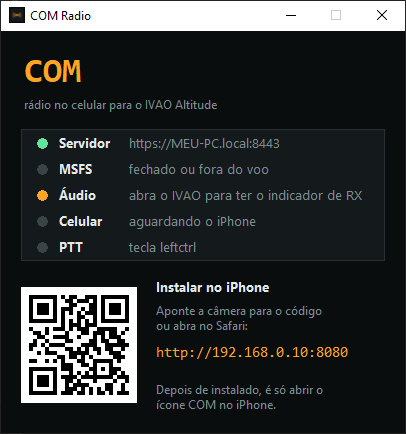
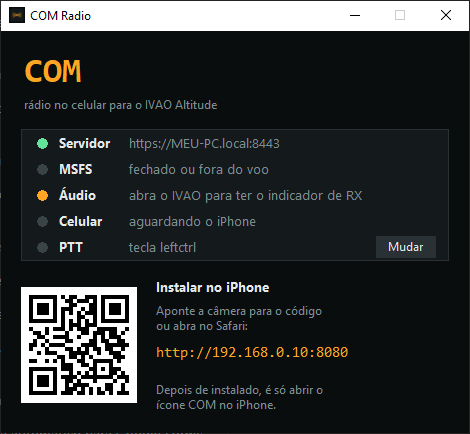
Tecla de PTT definida apertando ela
Botao Mudar na janela do PC: clica, aperta a tecla ou o botao do mouse
usado no IVAO, e o COM reconhece, troca com tudo rodando e salva so a
linha ptt_key do config.json. Recusa trocar com o PTT apertado.

diff --git a/app/gui.py b/app/gui.py
@@ -7,8 +7,10 @@ uvicorn, que passa pelo lifespan e solta a tecla de PTT.
 Os modos de diagnostico (--doctor, --meter...) continuam em 'py app/server.py'.
 """
 
+import math
 import sys
 import threading
+import time
 import tkinter as tk
 from pathlib import Path
 from tkinter import messagebox
@@ -25,6 +27,8 @@ if getattr(sys, "frozen", False):
 VOID, FACE, BEZEL = "#0A0D0E", "#141A1C", "#293134"
 LEGEND, INK, AMBER = "#7F8D93", "#E4EAEC", "#FFA524"
 GREEN, RED, OFF = "#62E39B", "#FF4B2B", "#3A4346"
+
+CAPTURE_S = 10  # quanto tempo o Mudar espera a tecla
 
 
 def fail(text: str) -> None:
@@ -86,8 +90,21 @@ class Window:
                      anchor="w").grid(row=i, column=1, sticky="w")
             detail = tk.Label(panel, text="", bg=FACE, fg=LEGEND, font=("Segoe UI", 10),
                               anchor="w", width=34)
-            detail.grid(row=i, column=2, sticky="w", padx=(0, 14))
+            detail.grid(row=i, column=2, sticky="w", padx=(0, 6))
             self.lamps[name], self.details[name] = lamp, detail
+
+        # definir a tecla apertando ela, em vez de achar o nome e editar o
+        # config.json. A captura roda numa thread e devolve por self.captured,
+        # que o tick le: o tkinter nao aceita ser mexido de outra thread
+        self.change = tk.Button(
+            panel, text="Mudar", command=self.start_capture, bg=BEZEL, fg=INK,
+            activebackground=FACE, activeforeground=INK, relief="flat", bd=0,
+            font=("Segoe UI", 9), padx=10, cursor="hand2",
+        )
+        self.change.grid(row=self.ROWS.index("PTT"), column=3, padx=(0, 12))
+        self.capture_until: float | None = None
+        self.captured: str | None = None
+        self.notice: tuple[str, str, float] | None = None
 
         setup_url = "http://%s:%s" % (server.lan_ip(), server.SETUP_PORT)
         bottom = tk.Frame(root, bg=VOID)
@@ -157,12 +174,46 @@ class Window:
         self.show("Celular", GREEN if n else OFF,
                   ("%d conectado" % n) + ("s" if n > 1 else "") if n else "aguardando o iPhone")
 
+        self.finish_capture()
+        agora = time.monotonic()
         if server.KEY.is_down:
             self.show("PTT", RED, "TRANSMITINDO")
+        elif self.capture_until:
+            falta = max(1, math.ceil(self.capture_until - agora))
+            self.show("PTT", AMBER, "aperte a tecla do IVAO… %ds" % falta)
+        elif self.notice and agora < self.notice[2]:
+            self.show("PTT", self.notice[1], self.notice[0])
         else:
             self.show("PTT", OFF, "tecla %s" % server.KEY.name)
 
         self.root.after(250, self.tick)
+
+    def start_capture(self) -> None:
+        if self.capture_until:
+            return
+        if server.KEY.is_down or server.HUB.holder is not None:
+            self.notice = ("solte o PTT antes de trocar", AMBER, time.monotonic() + 3)
+            return
+        self.capture_until = time.monotonic() + CAPTURE_S
+        self.change.configure(state="disabled")
+
+        def run():
+            self.captured = server.ptt_mod.capture(CAPTURE_S) or ""
+
+        threading.Thread(target=run, daemon=True, name="captura").start()
+
+    def finish_capture(self) -> None:
+        if self.captured is None:
+            return
+        nome, self.captured = self.captured, None
+        self.capture_until = None
+        self.change.configure(state="normal")
+        agora = time.monotonic()
+        if not nome:
+            self.notice = ("nenhuma tecla apertada; nada mudou", AMBER, agora + 4)
+            return
+        erro = server.set_ptt_key(nome)
+        self.notice = (erro, RED, agora + 6) if erro else ("tecla %s salva" % nome, GREEN, agora + 3)
 
     def close(self) -> None:
         # o mesmo desligamento do Ctrl+C: o lifespan solta a tecla e fecha

diff --git a/app/ptt.py b/app/ptt.py
@@ -171,6 +171,51 @@ else:
     _user32 = None
 
 
+def _vk_names() -> dict[int, str]:
+    """Virtual key -> nome do SCANCODES, para reconhecer a tecla apertada.
+
+    Sai do proprio SCANCODES pelo MapVirtualKey, entao toda tecla que da para
+    capturar tambem da para enviar. O numpad entra a mao: com Num Lock ligado
+    ele gera VK_NUMPAD*, que o mapa por scancode nao devolve. O Enter do
+    numpad cai como "enter": o Windows da o mesmo VK aos dois.
+    """
+    names: dict[int, str] = {}
+    for name, (scan, ext) in SCANCODES.items():
+        vk = _user32.MapVirtualKeyW(scan | (0xE000 if ext else 0), MAPVK_VSC_TO_VK_EX)
+        if vk:
+            names.setdefault(vk, name)  # o primeiro nome do dicionario ganha
+    for i in range(10):
+        names[0x60 + i] = "numpad%d" % i
+    names.update({0x6E: "numpaddot", 0x6B: "numpadplus", 0x6D: "numpadminus",
+                  0x6A: "numpadmultiply", 0x6F: "numpaddivide"})
+    for name in ("mouseback", "mouseforward", "mousemiddle"):
+        names[MOUSE_BUTTONS[name][3]] = name
+    return names
+
+
+def capture(timeout: float = 10.0) -> str | None:
+    """Espera o usuario apertar uma tecla ou botao do mouse e devolve o nome.
+
+    Le o estado global do Windows, entao funciona sem foco na janela e pega
+    os botoes laterais do mouse, que o tkinter no Windows nao enxerga. Os
+    botoes esquerdo e direito ficam de fora: o esquerdo e o que acabou de
+    clicar em Mudar. Tecla que ja estava apertada no inicio so conta depois
+    de soltar e apertar de novo.
+    """
+    names = _vk_names()
+    ocupadas = {vk for vk in names if _user32.GetAsyncKeyState(vk) & 0x8000}
+    fim = time.monotonic() + timeout
+    while time.monotonic() < fim:
+        for vk, name in names.items():
+            down = _user32.GetAsyncKeyState(vk) & 0x8000
+            if not down:
+                ocupadas.discard(vk)
+            elif vk not in ocupadas:
+                return name
+        time.sleep(0.015)
+    return None
+
+
 class PttKey:
     """Mantem o estado da tecla e garante que ela nunca fique presa."""
 
@@ -310,3 +355,14 @@ class PttKey:
         if _user32.GetAsyncKeyState(vk) & 0x8000:
             return False, "a tecla %s ficou presa depois do release" % self.name
         return True, "tecla %s apertada e solta com sucesso" % self.name
+
+
+if __name__ == "__main__":
+    # toda tecla que da para enviar tem que dar para capturar, menos o Enter
+    # do numpad, que o Windows nao distingue do Enter normal
+    nomes = set(_vk_names().values())
+    faltando = sorted(n for n in SCANCODES if n not in nomes and n != "numpadenter")
+    assert not faltando, "sem captura: %s" % faltando
+    assert {"leftctrl", "rightctrl", "mouseback", "mouseforward", "mousemiddle"} <= nomes
+    assert ctypes.sizeof(_INPUT) == 40, "INPUT com tamanho errado, o SendInput falharia"
+    print("ok")

diff --git a/app/server.py b/app/server.py
@@ -18,6 +18,7 @@ import asyncio
 import json
 import logging
 import os
+import re
 import socket
 import sys
 import time
@@ -160,6 +161,35 @@ def build(fake_sim: bool = False) -> None:
     )
     RX = audio_mod.RxDetector(CFG) if CFG.get("audio_enabled", True) else audio_mod.NullDetector()
     FEED = WhazzupFeed(CFG)
+
+
+def set_ptt_key(name: str) -> str | None:
+    """Troca a tecla de PTT com o servidor rodando e salva no config.json.
+
+    Devolve o erro para mostrar, ou None. Recusa no meio de uma transmissao:
+    trocar com a tecla antiga apertada a deixaria presa.
+    """
+    global KEY
+    if KEY.is_down or HUB.holder is not None:
+        return "solte o PTT antes de trocar a tecla"
+    antiga, nova = KEY, ptt_mod.PttKey(name)
+    KEY = HUB.key = nova
+    # o celular pode ter apertado entre a checagem e a troca
+    antiga.force_release("tecla de PTT trocada")
+    CFG["ptt_key"] = nova.name
+    log.info("PTT agora na tecla '%s'", nova.name)
+
+    path = HOME / "config.json"
+    try:
+        texto = path.read_text(encoding="utf-8")
+        # so a linha da tecla, para nao reformatar o arquivo que o usuario edita
+        novo, achou = re.subn(
+            r'("ptt_key"\s*:\s*)"[^"]*"', lambda m: m.group(1) + json.dumps(nova.name), texto
+        )
+        path.write_text(novo if achou else json.dumps(CFG, indent=2), encoding="utf-8")
+    except OSError as exc:
+        return "tecla trocada, mas não consegui salvar o config.json: %s" % exc
+    return None
 
 
 def build_state() -> dict:

diff --git a/README.pt-BR.md b/README.pt-BR.md
@@ -80,14 +80,15 @@ iPhone uma vez.
 
 1. Baixe o `COM-Radio-windows.zip` da
    [última release](../../releases/latest) e extraia onde quiser.
-2. Abra o `config.json` ao lado do exe e ponha em `ptt_key` a mesma tecla que
-   você usa como PTT na IVAO (veja [Configuração](#configuração)).
-3. Abra o `COM Radio.exe`.
+2. Abra o `COM Radio.exe`.
    - O exe não tem assinatura digital, então o SmartScreen do Windows pode
      avisar na primeira vez: clique em **Mais informações › Executar assim
      mesmo**.
    - O Firewall do Windows vai perguntar sobre a rede: libere em **Redes
      privadas**, senão o iPhone não alcança o PC.
+3. **Defina a tecla de PTT:** clique em **Mudar** na linha do PTT da janela e
+   aperte a tecla ou o botão do mouse que você usa como PTT na IVAO. O COM
+   reconhece e salva sozinho; não precisa saber o nome da tecla.
 4. **No iPhone, uma vez só:** aponte a câmera para o QR code da janela (ou
    abra no Safari o endereço `http://…:8080` que ela mostra) e siga os quatro
    passos da página:
@@ -109,7 +110,7 @@ Tudo fica no `config.json`, ao lado do exe.
 
 | Chave | Padrão | O que faz |
 |---|---|---|
-| `ptt_key` | `leftctrl` | Tecla apertada no PTT. Letras, números, `f1` a `f24`, teclas do numpad, modificadoras (`leftctrl`, `rightalt`…) ou botões do mouse `mouseback`, `mouseforward`, `mousemiddle`. Lista completa: `SCANCODES` no `app/ptt.py` |
+| `ptt_key` | `leftctrl` | Tecla apertada no PTT. O jeito fácil é o botão **Mudar** da janela. À mão: letras, números, `f1` a `f24`, teclas do numpad, modificadoras (`leftctrl`, `rightalt`…) ou botões do mouse `mouseback`, `mouseforward`, `mousemiddle`. Lista completa: `SCANCODES` no `app/ptt.py` |
 | `ptt_deadman_ms` | `700` | Solta o PTT se o celular ficar esse tempo sem dar sinal |
 | `audio_process` | `["ivao", "altitude"]` | Qualquer pedaço do caminho do programa cujo volume quer dizer "alguém falando" |
 | `squelch_open` / `squelch_close` | `0.03` / `0.01` | Nível que acende / apaga a luz de recepção |

diff --git a/README.md b/README.md
@@ -79,13 +79,14 @@ small certificate authority on your PC. You trust it on the iPhone once.
 
 1. Download `COM-Radio-windows.zip` from the
    [latest release](../../releases/latest) and extract it anywhere.
-2. Open `config.json` next to the exe and set `ptt_key` to the same key you use
-   for PTT in IVAO (see [Configuration](#configuration)).
-3. Run `COM Radio.exe`.
+2. Run `COM Radio.exe`.
    - The exe is not code-signed, so Windows SmartScreen may warn you the first
      time: click **More info › Run anyway**.
    - Windows Firewall will ask about network access: allow **Private
      networks**, otherwise the iPhone can't reach the PC.
+3. **Set your PTT key:** click **Mudar** (change) on the PTT line of the
+   window, then press the key or mouse button you use for PTT in IVAO. COM
+   recognizes it and saves it; no need to know its name.
 4. **On the iPhone, once:** point the camera at the QR code in the window (or
    open the `http://…:8080` address it shows in Safari) and follow the four
    steps on the page:
@@ -107,7 +108,7 @@ Everything is in `config.json`, next to the exe.
 
 | Key | Default | What it does |
 |---|---|---|
-| `ptt_key` | `leftctrl` | Key pressed for PTT. Letters, digits, `f1`–`f24`, numpad keys, modifiers (`leftctrl`, `rightalt`…), or mouse buttons `mouseback`, `mouseforward`, `mousemiddle`. Full list: `SCANCODES` in `app/ptt.py` |
+| `ptt_key` | `leftctrl` | Key pressed for PTT. Easiest to set with the **Mudar** button in the window. By hand: letters, digits, `f1`–`f24`, numpad keys, modifiers (`leftctrl`, `rightalt`…), or mouse buttons `mouseback`, `mouseforward`, `mousemiddle`. Full list: `SCANCODES` in `app/ptt.py` |
 | `ptt_deadman_ms` | `700` | Releases PTT if the phone goes silent this long |
 | `audio_process` | `["ivao", "altitude"]` | Any part of the path of the program whose volume means "someone is talking" |
 | `squelch_open` / `squelch_close` | `0.03` / `0.01` | Level that turns the receive light on / off |

diff --git a/CLAUDE.md b/CLAUDE.md
@@ -84,6 +84,29 @@ graça porque a union já estava declarada inteira para a struct ter 40 bytes.
 Cuidado ao sugerir: um `XBUTTON1` sintético faz o app em foco voltar de
 página, então fora do simulador ele atrapalha.
 
+**A tecla se define apertando ela (out/2026).** Achar o nome certo e editar o
+`config.json` era difícil para o usuário. O botão Mudar da janela do PC chama
+`ptt.capture()`, que lê o `GetAsyncKeyState` global até alguma tecla descer,
+e `server.set_ptt_key()`, que troca a tecla com tudo rodando e reescreve só a
+linha `ptt_key` do config. Detalhes que importam:
+
+- O mapa de captura sai do próprio `SCANCODES` pelo `MapVirtualKey`, então
+  toda tecla capturável também é enviável. O numpad entra à mão
+  (`VK_NUMPAD*` com Num Lock). O Enter do numpad vira `enter`: o Windows dá
+  o mesmo VK aos dois.
+- Global e não por eventos do tkinter: o tkinter no Windows não enxerga os
+  botões laterais do mouse, e a janela nem precisa de foco. Botões esquerdo
+  e direito ficam de fora (o esquerdo acabou de clicar em Mudar); tecla já
+  apertada no início só conta depois de soltar.
+- **Recusa trocar com PTT apertado ou com alguém segurando**, e solta a tecla
+  antiga depois da troca: sem isso a tecla antiga poderia ficar presa, que é
+  o que o dead-man switch existe para impedir.
+- Mudar só na janela do PC, por decisão do usuário: a tecla é apertada no
+  teclado do PC de qualquer jeito.
+
+Testado com tecla real (F13, Ctrl e Shift dos dois lados, Alt), com a
+recusa no meio de transmissão e com o tempo esgotando sem tecla.
+
 **O self-test não roda no boot, de propósito.** Ele aperta a tecla de
 verdade; com o Altitude conectado isso é uma transmissão curta na frequência.
 Fica só nos comandos explícitos.
